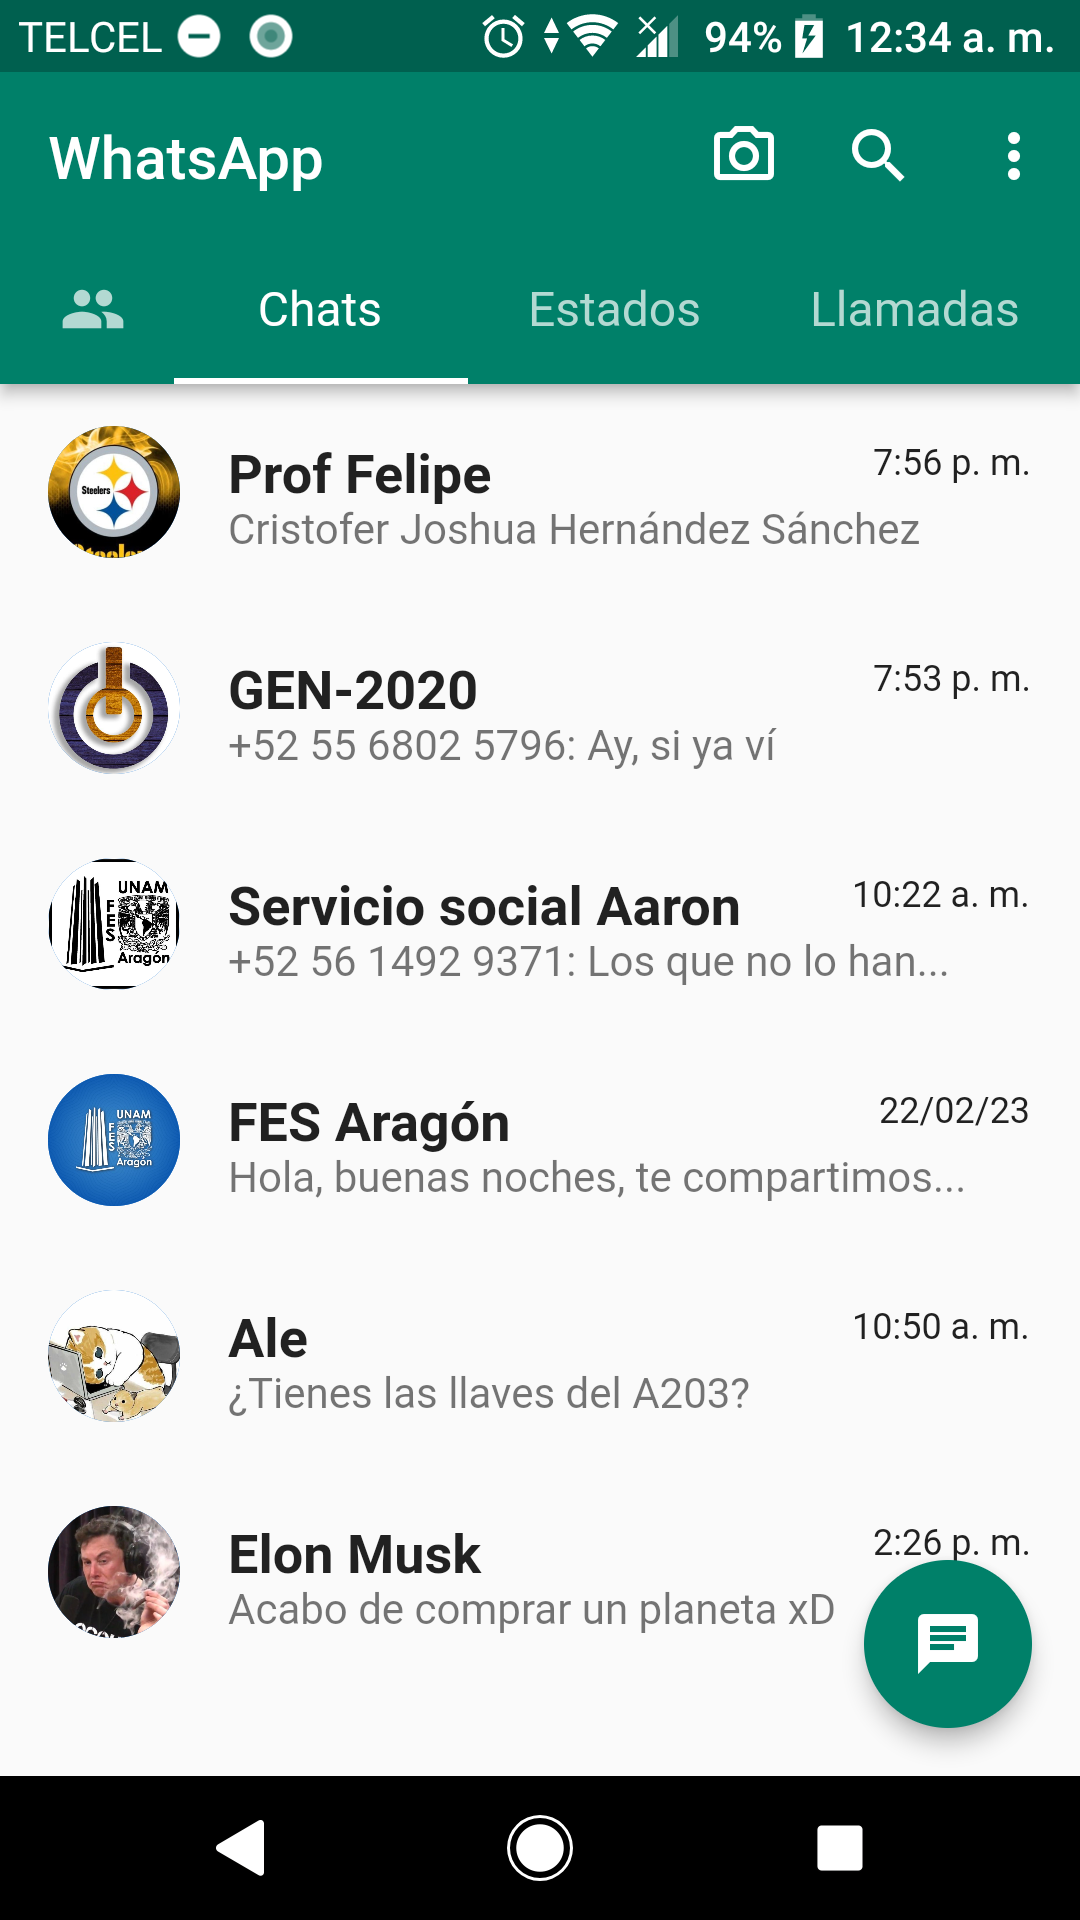
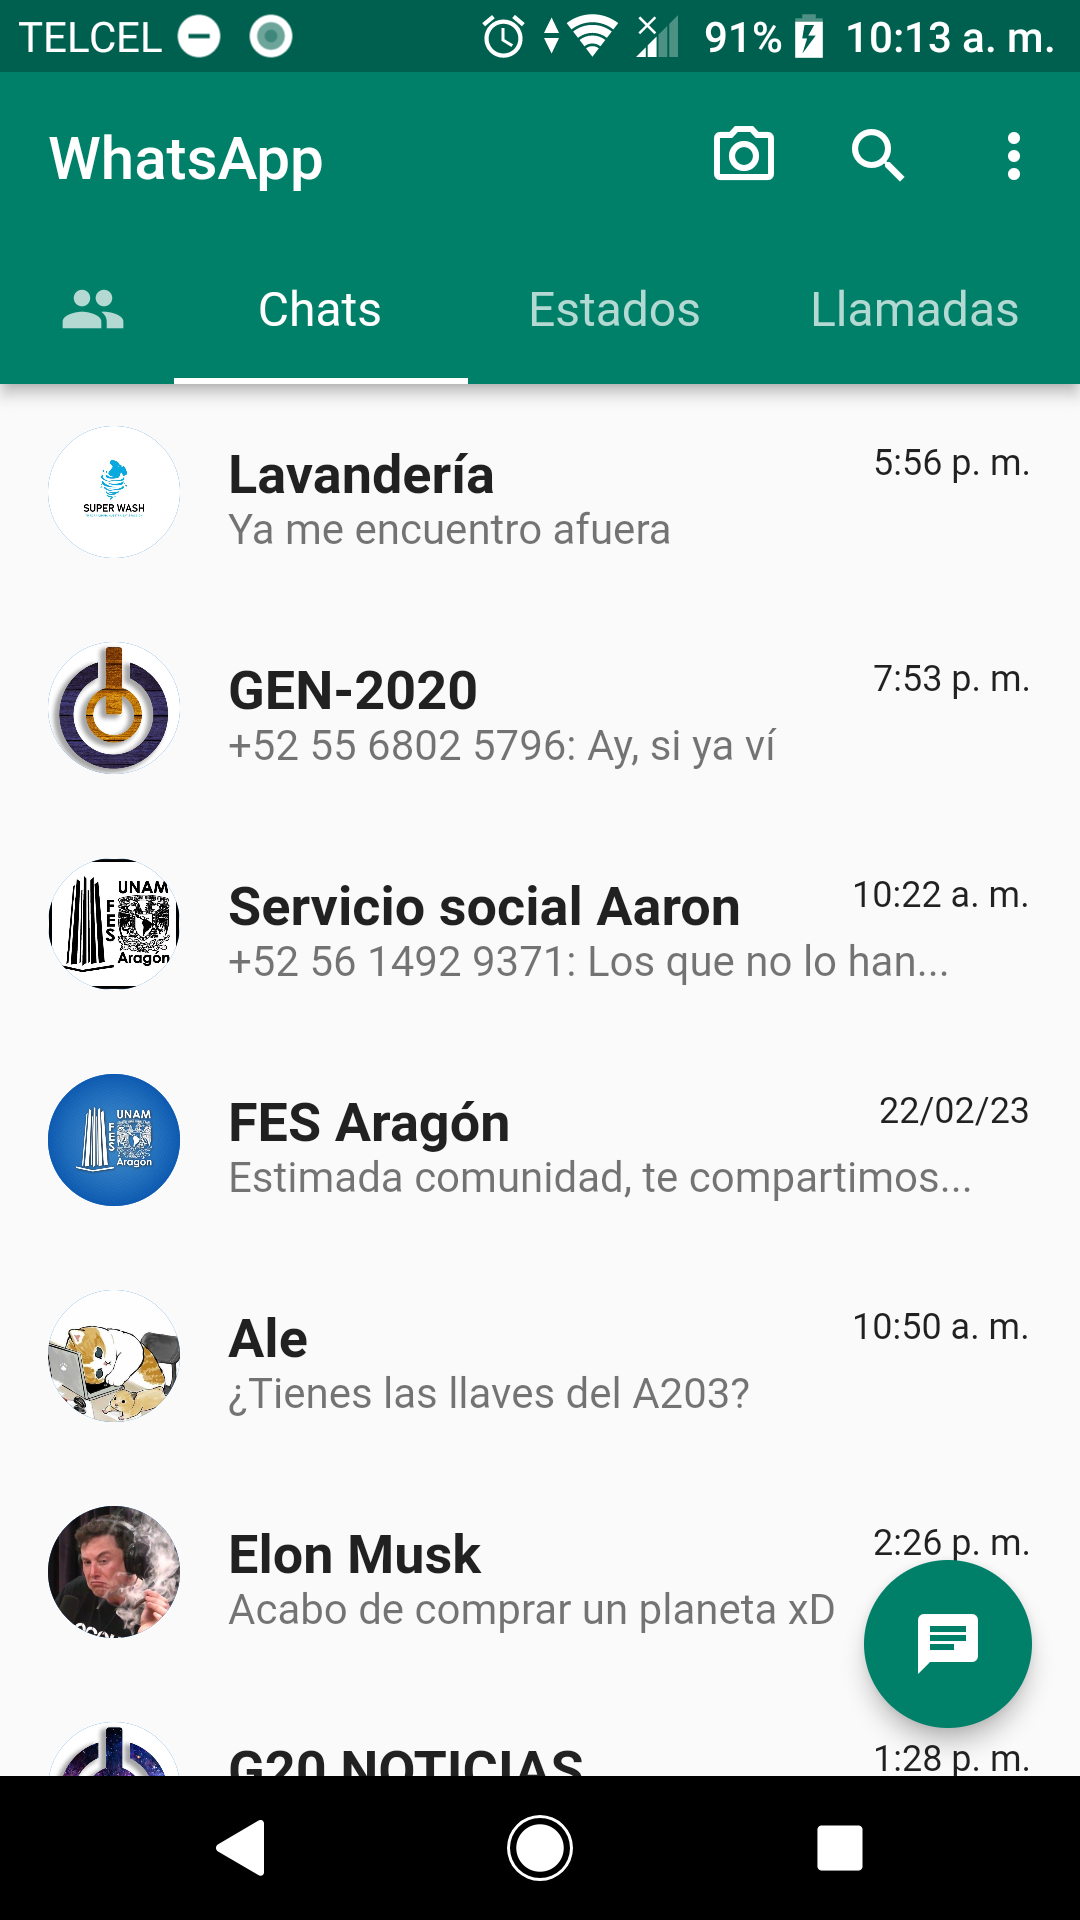
hw

diff --git a/main.dart b/main.dart
@@ -61,11 +61,11 @@ class HolaMundo extends StatelessWidget {
                   leading: CircleAvatar(
                       radius: 22,
                       backgroundImage: NetworkImage(
-                          "https://raw.githubusercontent.com/cris-her/ZipTest/master/ProfFelipe.PNG")),
+                          "https://raw.githubusercontent.com/cris-her/ZipTest/master/Lavanderia.PNG")),
                   title: Stack(
                     children: [
                       Text(
-                        "Prof Felipe",
+                        "Lavandería",
                         style: TextStyle(
                             fontSize: 18, fontWeight: FontWeight.bold),
                       ),
@@ -73,13 +73,13 @@ class HolaMundo extends StatelessWidget {
                         top: 0,
                         right: 0,
                         child: Text(
-                          "7:56 p. m.",
+                          "5:56 p. m.",
                           style: TextStyle(fontSize: 12),
                         ),
                       ),
                     ],
                   ),
-                  subtitle: Text("Cristofer Joshua Hernández Sánchez"),
+                  subtitle: Text("Ya me encuentro afuera"),
                 ),
                 ListTile(
                   leading: CircleAvatar(
@@ -151,7 +151,7 @@ class HolaMundo extends StatelessWidget {
                       ),
                     ],
                   ),
-                  subtitle: Text("Hola, buenas noches, te compartimos..."),
+                  subtitle: Text("Estimada comunidad, te compartimos..."),
                 ),
                 ListTile(
                   leading: CircleAvatar(
@@ -200,6 +200,30 @@ class HolaMundo extends StatelessWidget {
                     ],
                   ),
                   subtitle: Text("Acabo de comprar un planeta xD"),
+                ),
+                ListTile(
+                  leading: CircleAvatar(
+                      radius: 22,
+                      backgroundImage: NetworkImage(
+                          "https://raw.githubusercontent.com/cris-her/ZipTest/master/Noticias.PNG")),
+                  title: Stack(
+                    children: [
+                      Text(
+                        "G20 NOTICIAS",
+                        style: TextStyle(
+                            fontSize: 18, fontWeight: FontWeight.bold),
+                      ),
+                      Positioned(
+                        top: 0,
+                        right: 0,
+                        child: Text(
+                          "1:28 p. m.",
+                          style: TextStyle(fontSize: 12),
+                        ),
+                      ),
+                    ],
+                  ),
+                  subtitle: Text("Por cierto, para revisar su horario de..."),
                 ),
               ],
             ),
